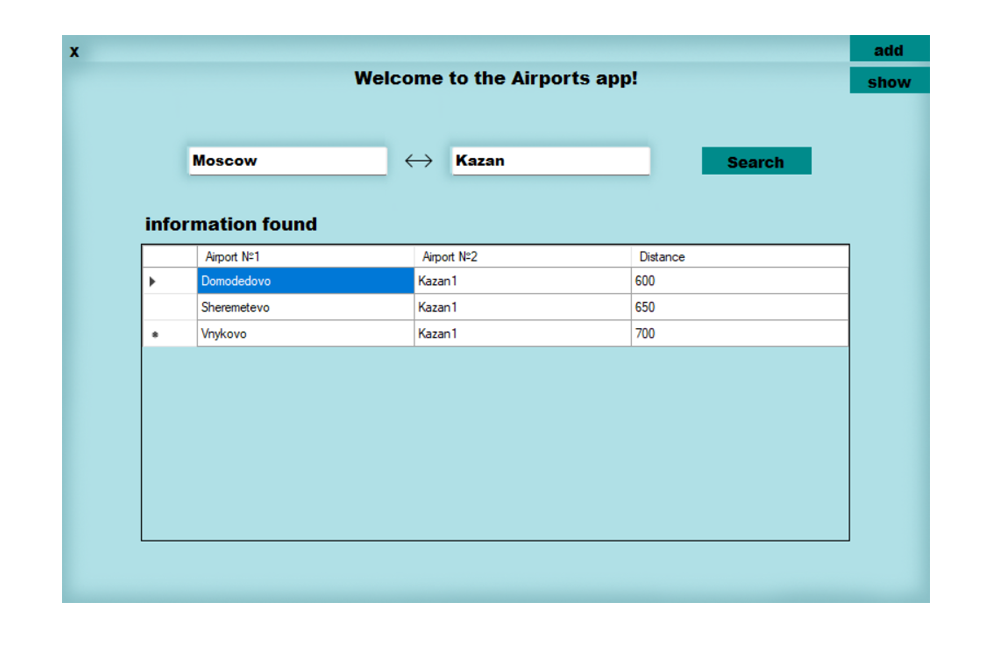
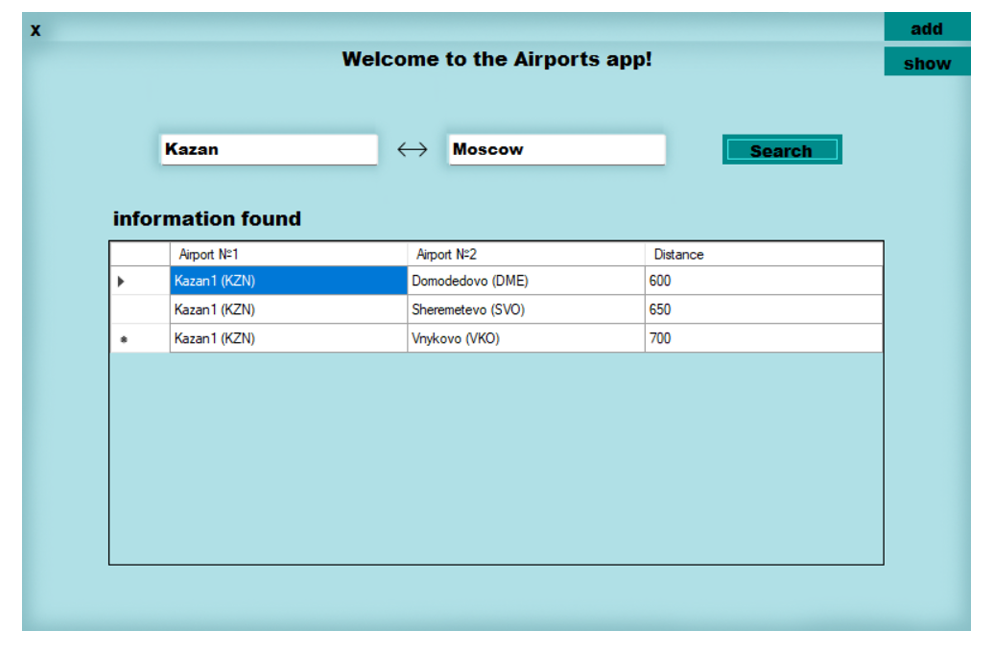
changing the manual

Changed region(s): [[0.0, 0.0, 1.0, 0.9892], [0.1515, 0.1855, 0.8485, 0.2782]]

diff --git a/README.md b/README.md
@@ -7,6 +7,7 @@
 2. [Information output form](#information-output-form)
 3. [Form for adding data](#form-for-adding-data)
 4. [About classes](#about-classes)
+5. [Form with information about routes](#form-with-information-about-routes)
 
 ## Main Form
 #### Это главная форма, на ней расположены 2 textBox'a (город отправления и город прибытия), в которые нужно вводить город.
@@ -26,11 +27,18 @@
 код формы 1 находится [здесь](coursWork/coursWork/FormShow.cs)
 
 ## Form for adding data
-#### Это форма для добавления новых данных в бд (файл). Заправшиваются данные о названии аэропорта (например Пулково), короткое имя / код (Например LED), город (например Санкт-Петербург). Добавляются 2 города и расстояние между ними. Также при нажатии на кнопку "Delete all" удалится вся информация из файлов.
+#### Это форма для добавления новых данных в бд (файл). Заправшиваются данные о названии аэропорта (например Пулково), короткое имя / код (Например LED), город (например Санкт-Петербург). Добавляются 2 города и расстояние между ними. Также при нажатии на кнопку "Delete all" удалится вся информация из файлов с предварительным подтверждением этого действия. 
+#### Ниже кнопка-текст, при нажатии на которую выводится окно со всеми маршрутами.
 - Если один из городов уже существует, то он не будет перезаписан заново, добавится информация о втором городе и расстояние между ними. 
 - Если обоих городов нет, то занесется информация о каждом городе и добавится дистанция между ними.
-![main](images/imageFormAdd_1.png)</br>
+![imageFormAdd](images/imageFormAdd_1.png)</br>
 код формы 1 находится [здесь](coursWork/coursWork/FormAdd.cs)
+
+## Form with information about routes
+#### Это окно с выводом всех маршрутов, открывается из формы добавления. Имеется возможность удалять маршруты, выбрав нужный. После удаления, на главной форме указанный маршрут не будет найден.
+![imageFormRoutes](images/imageFormRoutes_1.png)</br>
+код формы 1 находится [здесь](coursWork/coursWork/ShowRoutes.cs)
+
 
 ## About classes
 #### Созданы 3 класса 
